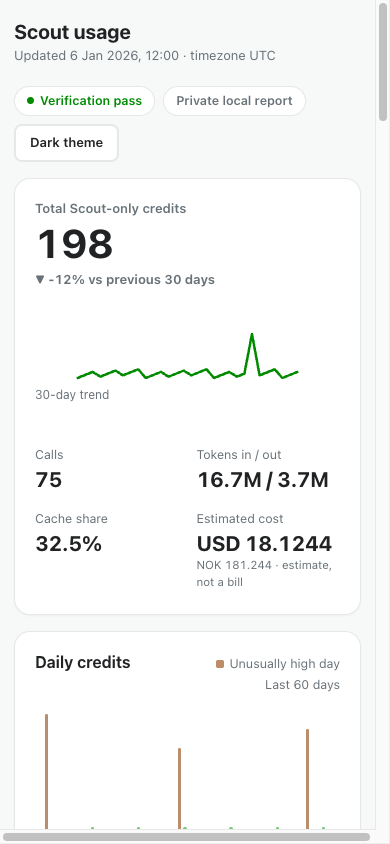
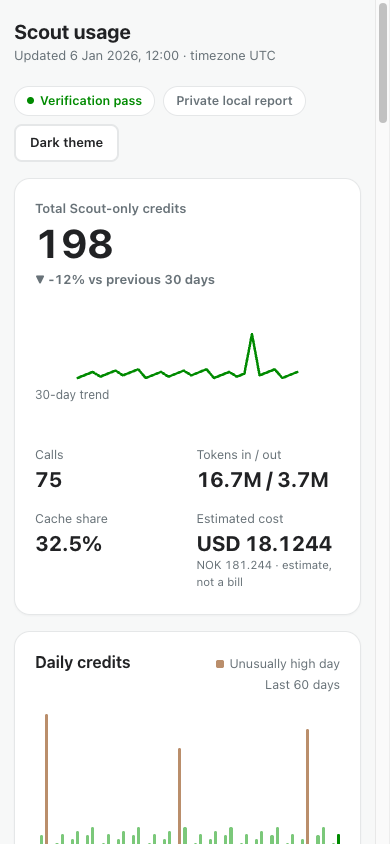
Harden responsive dashboard breakpoints

Changed region(s): [[0.0, 0.9858, 0.9538, 1.0]]

diff --git a/examples/synthetic-dashboard.html b/examples/synthetic-dashboard.html
@@ -266,7 +266,7 @@
     .warning-list { margin-top: 16px; color: var(--d-muted-text); font-size: 12.5px; }
     .warning-list ul { margin: 0; padding-left: 18px; }
     footer { color: var(--d-muted-text); font-size: 12px; line-height: 1.6; }
-    @media (max-width: 940px) {
+    @media (max-width: 1200px) {
       .chart-row { grid-template-columns: 1fr; }
       .hero-kpis { width: 100%; margin-left: 0; }
       .hero-kpi { flex: 1; }
@@ -280,7 +280,9 @@
       .spark-wrap, .sparkline { width: min(100%, 320px); }
       .hero-kpis { gap: 18px; }
       .hero-kpi { min-width: 125px; }
-      .model-layout { align-items: flex-start; flex-wrap: wrap; }
+      .model-layout { align-items: flex-start; flex-direction: column; }
+      .model-legend { width: 100%; }
+      .quiet-row { grid-template-columns: minmax(0, 1fr); }
       .chart-meta { align-items: flex-end; flex-direction: column; gap: 2px; }
       .quiet-card dl { grid-template-columns: 1fr; gap: 2px; }
       .quiet-card dd { margin-bottom: 8px; text-align: left; }

diff --git a/templates/dashboard.html b/templates/dashboard.html
@@ -266,7 +266,7 @@
     .warning-list { margin-top: 16px; color: var(--d-muted-text); font-size: 12.5px; }
     .warning-list ul { margin: 0; padding-left: 18px; }
     footer { color: var(--d-muted-text); font-size: 12px; line-height: 1.6; }
-    @media (max-width: 940px) {
+    @media (max-width: 1200px) {
       .chart-row { grid-template-columns: 1fr; }
       .hero-kpis { width: 100%; margin-left: 0; }
       .hero-kpi { flex: 1; }
@@ -280,7 +280,9 @@
       .spark-wrap, .sparkline { width: min(100%, 320px); }
       .hero-kpis { gap: 18px; }
       .hero-kpi { min-width: 125px; }
-      .model-layout { align-items: flex-start; flex-wrap: wrap; }
+      .model-layout { align-items: flex-start; flex-direction: column; }
+      .model-legend { width: 100%; }
+      .quiet-row { grid-template-columns: minmax(0, 1fr); }
       .chart-meta { align-items: flex-end; flex-direction: column; gap: 2px; }
       .quiet-card dl { grid-template-columns: 1fr; gap: 2px; }
       .quiet-card dd { margin-bottom: 8px; text-align: left; }

diff --git a/tests/test_config_render.py b/tests/test_config_render.py
@@ -142,6 +142,9 @@ class ConfigRenderTests(unittest.TestCase):
         self.assertIn("Estimated cost", text)
         self.assertIn("width: 90%", text)
         self.assertIn("minmax(90px, 1fr)", text)
+        self.assertIn("@media (max-width: 1200px)", text)
+        self.assertIn(".model-legend { width: 100%; }", text)
+        self.assertIn(".quiet-row { grid-template-columns: minmax(0, 1fr); }", text)
         self.assertNotIn("title=", text)
         self.assertNotIn('<script src=', text)
         self.assertNotIn('<link rel="stylesheet"', text)

diff --git a/src/scout_usage_tracker/__init__.py b/src/scout_usage_tracker/__init__.py
@@ -1,3 +1,3 @@
 """Private, local Scout usage accounting."""
 
-__version__ = "0.1.3"
+__version__ = "0.1.4"
